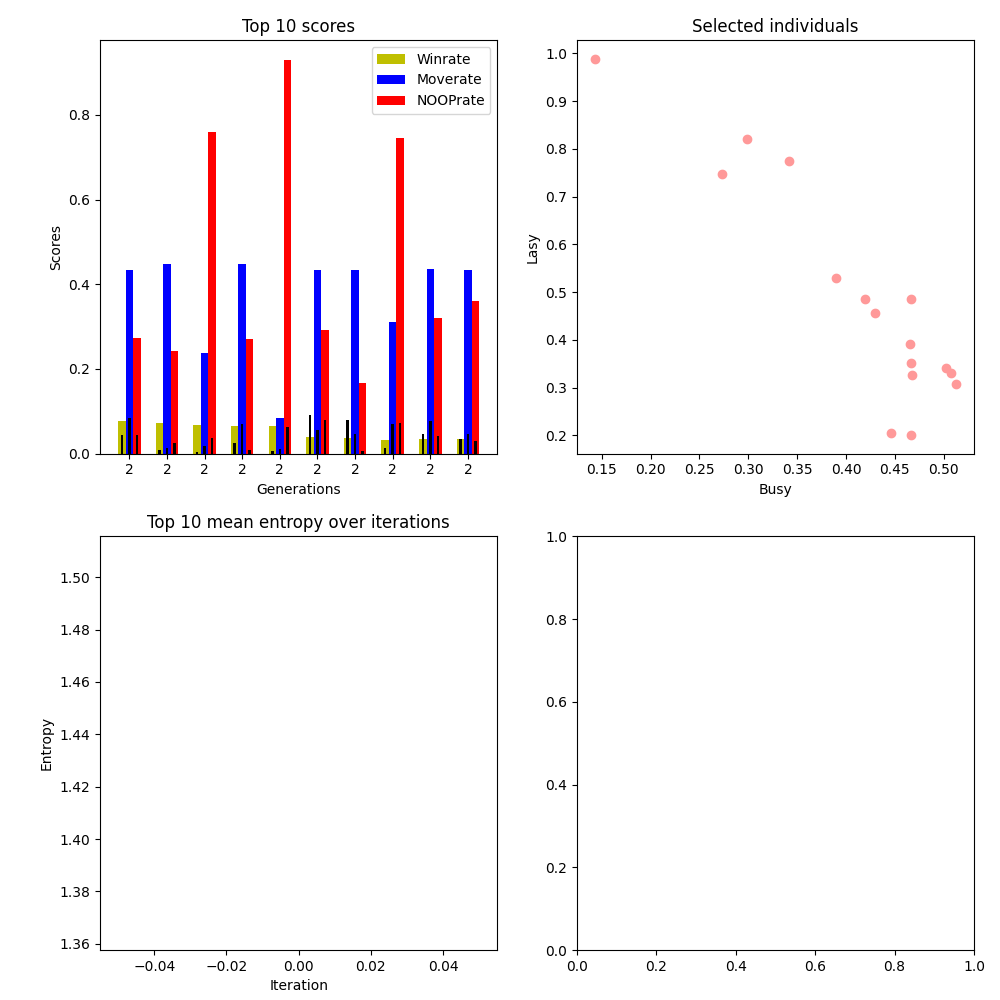
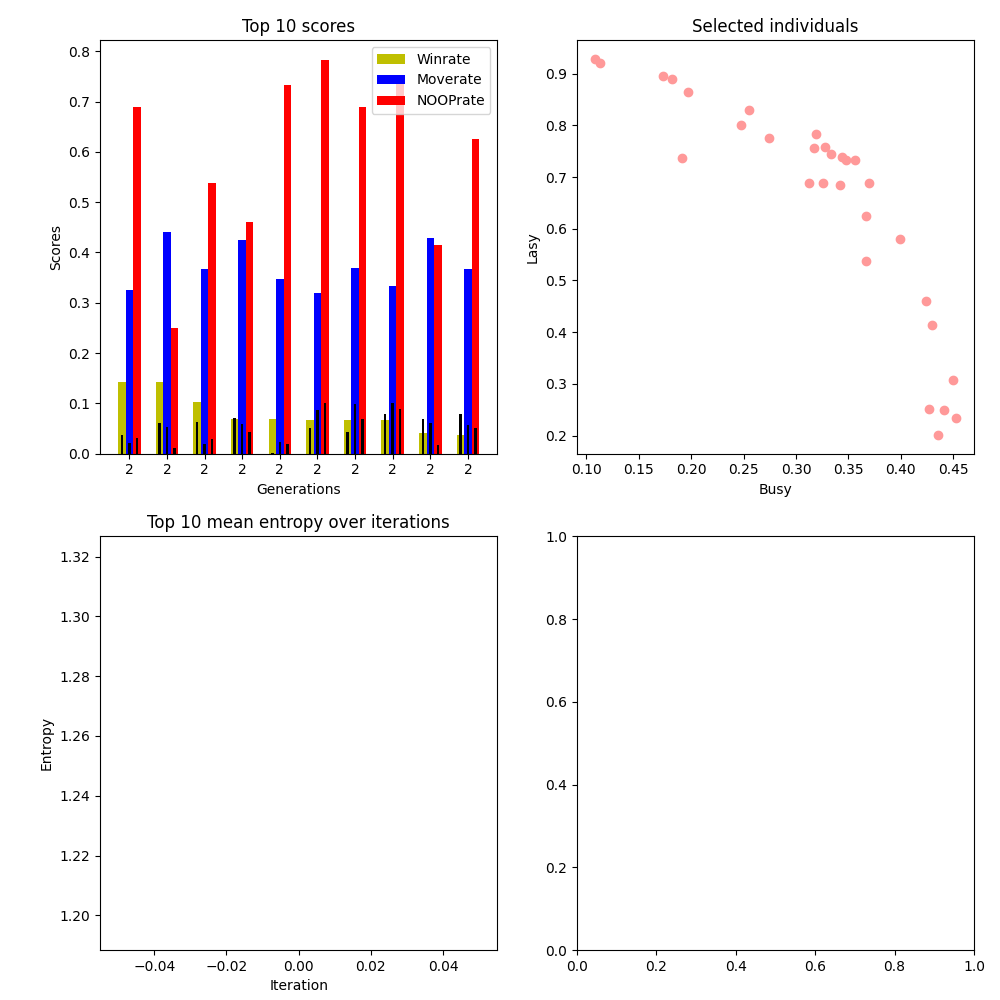
3-16

diff --git a/env_utils.py b/env_utils.py
@@ -38,7 +38,7 @@ class Pong(dict):
         return np.abs(np.float32(obs[4]) - last_pos)
 
     def is_no_op(self, action_id):
-        return action_id in [1]  # no act or no op ?
+        return action_id in [0]  # no act means no op or no move ?
 
 
 name2class = {'Pong-ramNoFrameskip-v4': Pong
